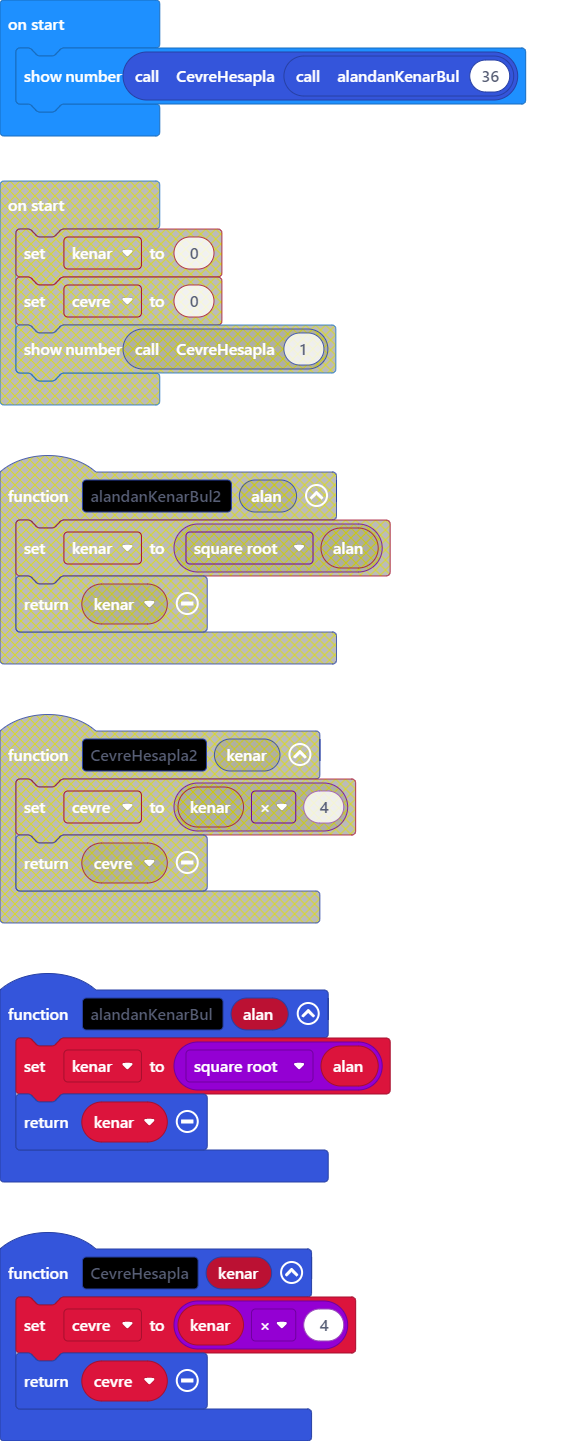
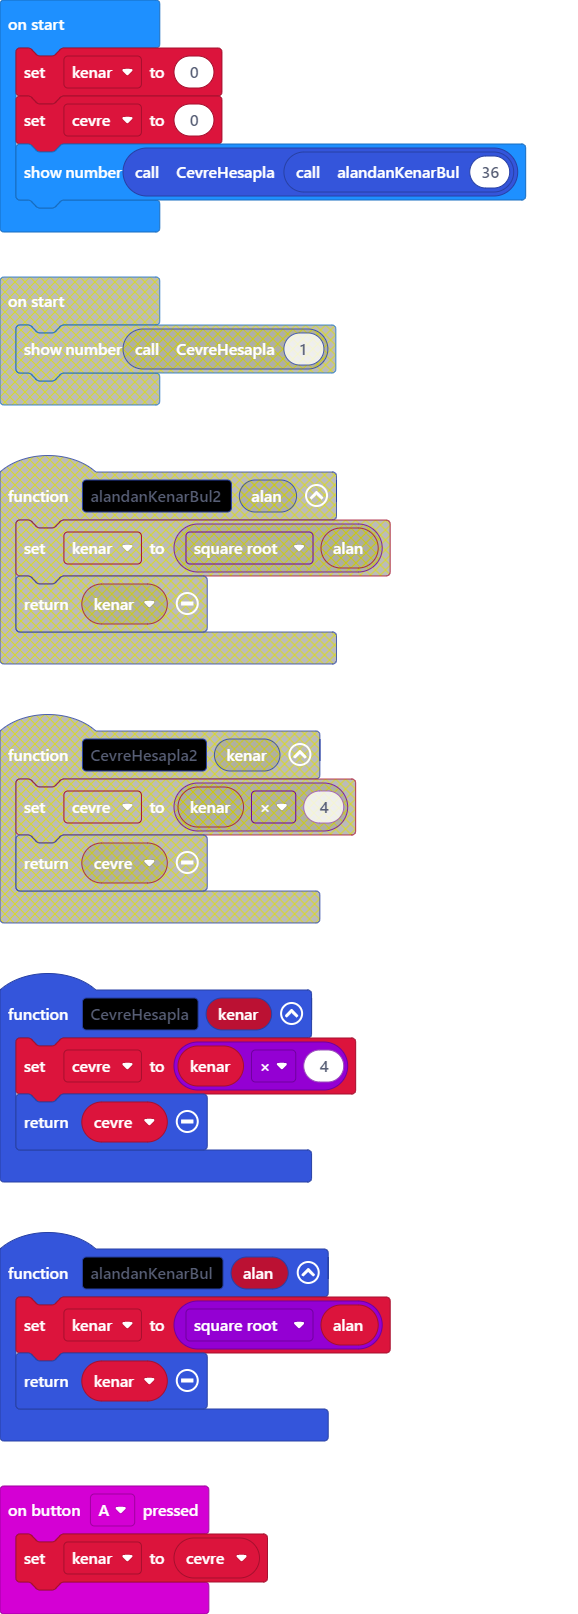
Update main.blocks, main.ts, AlandanCevreTutorial.md

diff --git a/main.ts b/main.ts
@@ -2,10 +2,13 @@ function CevreHesapla (kenar: number) {
     cevre = kenar * 4
     return cevre
 }
+
 function alandanKenarBul (alan: number) {
     kenar = Math.sqrt(alan)
     return kenar
 }
-let kenar = 0
 let cevre = 0
+let kenar = 0
+kenar = 0
+cevre = 0
 basic.showNumber(CevreHesapla(alandanKenarBul(36)))

diff --git a/AlandanCevreTutorial.md b/AlandanCevreTutorial.md
@@ -110,6 +110,7 @@ basic.showNumber(0)
 Projenin tamamlanmış haline kod blokları aşağıdaki gibi olacaktır.
 
 ```blocks
+
 function CevreHesapla (kenar: number) {
     cevre = kenar * 4
     return cevre
@@ -118,6 +119,7 @@ function alandanKenarBul (alan: number) {
     kenar = Math.sqrt(alan)
     return kenar
 }
+
 let kenar = 0
 let cevre = 0
 kenar = 0
